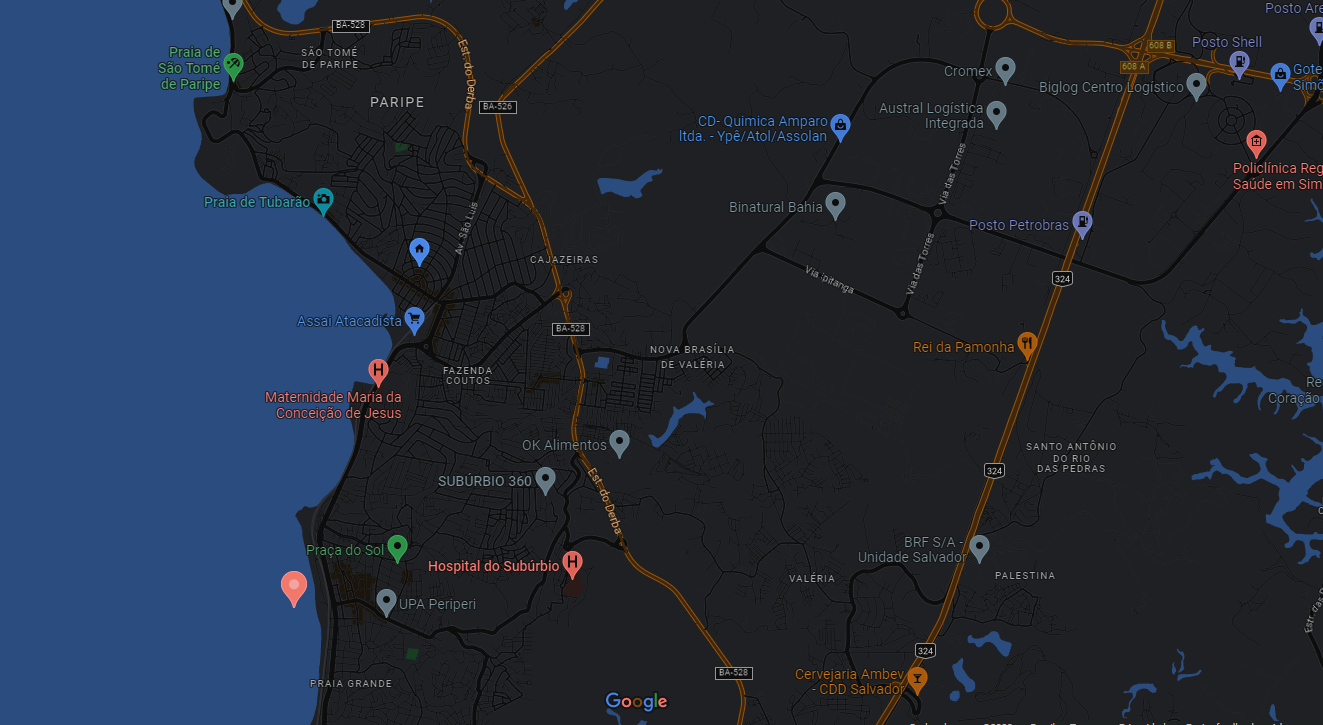
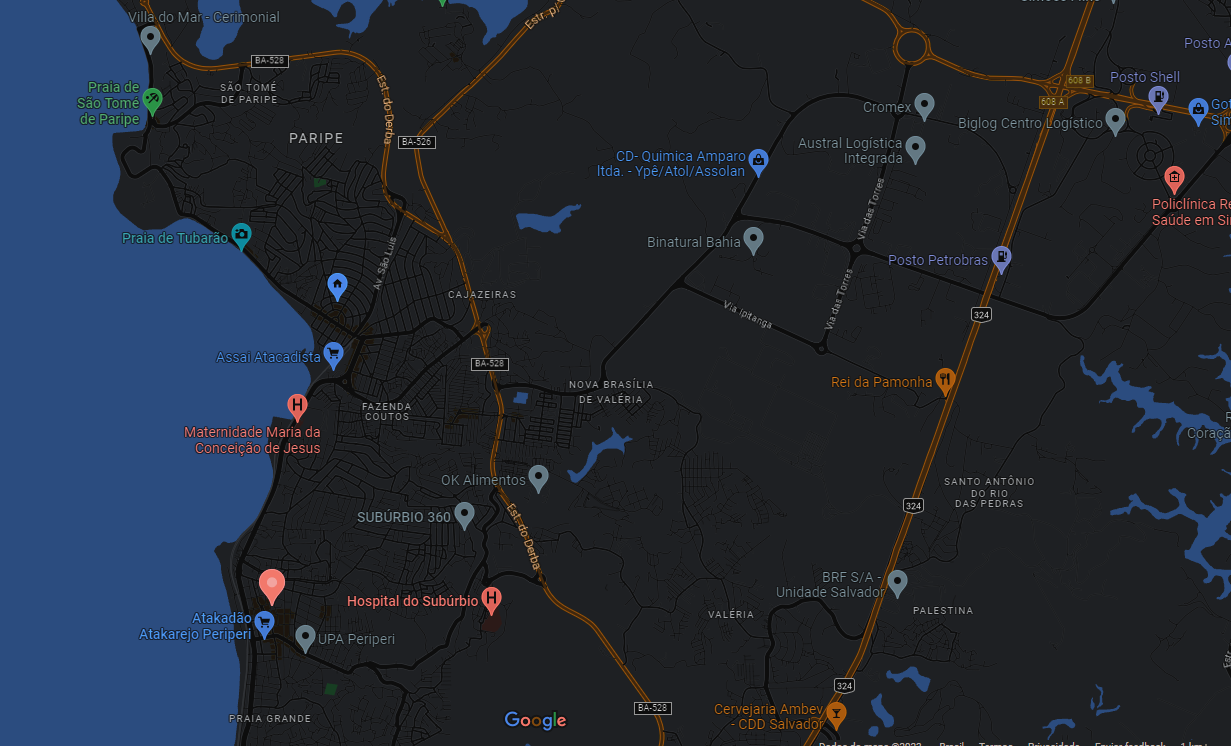
🍱 Update geo info

diff --git a/analytics.html b/analytics.html
@@ -668,8 +668,8 @@
                     <span>ESTADO: </span>Bahia (BA)<br />
                     <span>CIDADE: </span>Salvador<br />
                     <span>CEP: </span>40000<br />
-                    <span>LATITUDE: </span>-12.8671<br />
-                    <span>LONGITUDE: </span>-38.4807<br />
+                    <span>LATITUDE: </span>-12.86398983001709<br />
+                    <span>LONGITUDE: </span>-38.47562026977539<br />
                   </p>
                 </div>
 
@@ -803,3 +803,6 @@
     <script src="./js/index.js"></script>
   </body>
 </html>
+
+<!--TODO: Fazer paginação das tabelas-->
+<!--TODO: Obter dados via javascript-->
